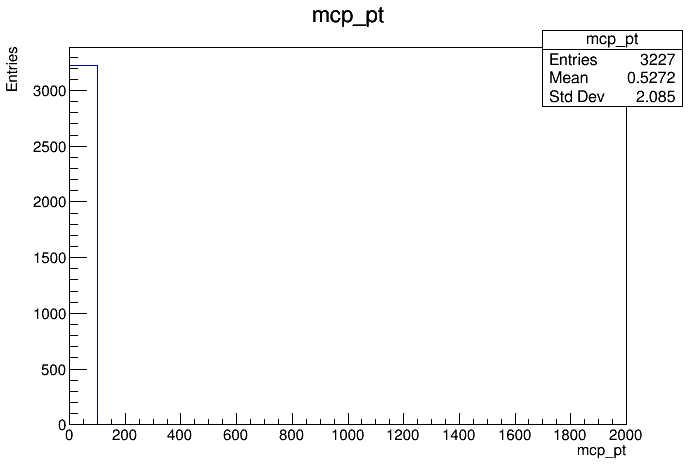
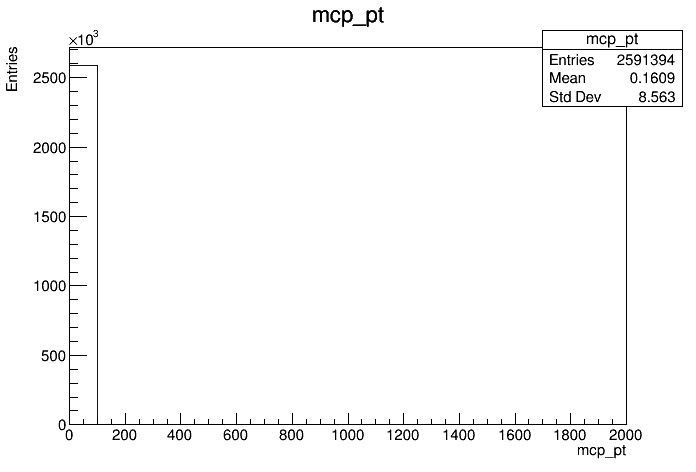
new dataset

diff --git a/makePionPlot.py b/makePionPlot.py
@@ -14,7 +14,8 @@ max_events = -1
 
 # Gather input files
 # Note: these are using the path convention from the singularity command in the MuCol tutorial (see README)
-fnames = glob.glob("/data/fmeloni/DataMuC_MuColl_v1/pionGun_10/reco/*.slcio")
+fnames = glob.glob("/data/fmeloni/DataMuC_MuColl_v1/pionGun/reco/*.slcio")
+#fnames = glob.glob("/data/fmeloni/DataMuC_MuColl_v1/pionGun_10/reco/*.slcio")
 #fnames = glob.glob("/data/fmeloni/DataMuC_MuColl10_v0A/gen_muonGun/recoBIB/*.slcio")
 #fnames = glob.glob("/data/fmeloni/DataMuC_MuColl10_v0A/muonGun_1000/recoBIB/*.slcio")
 print("Found %i files."%len(fnames))
